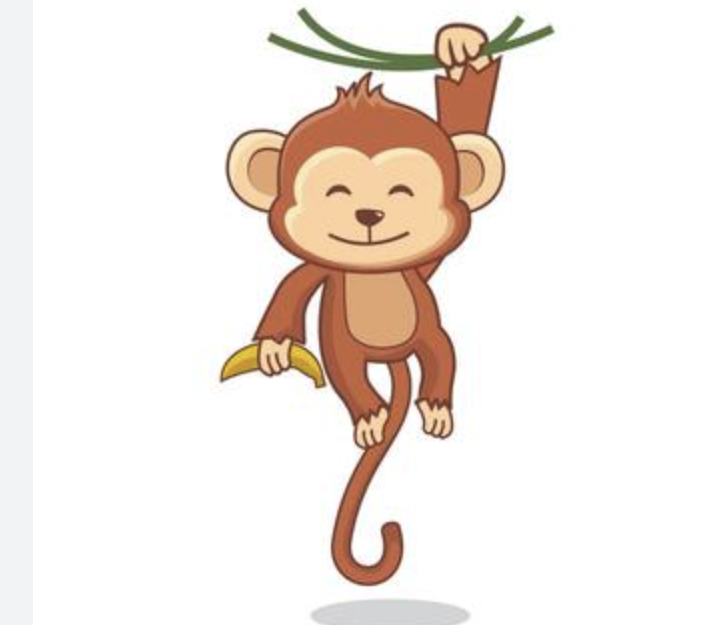
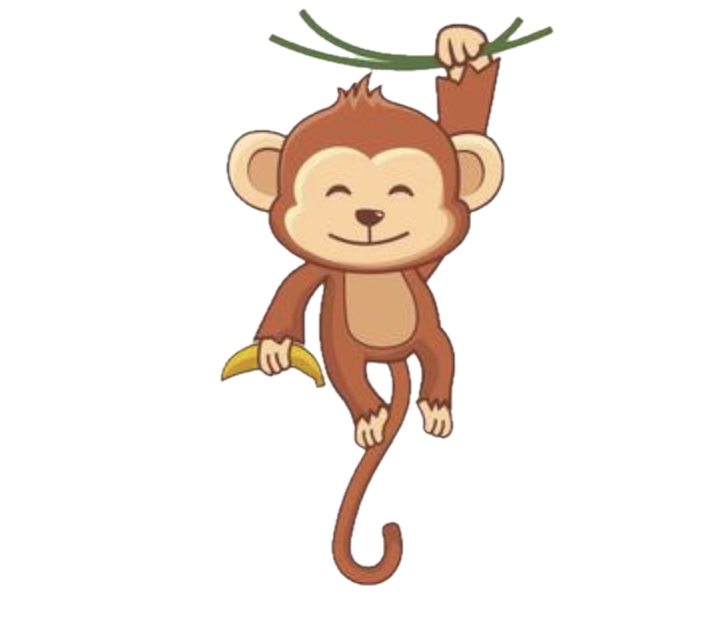
Made one charcter be sued by keys

diff --git a/src/BasicGameApp.java b/src/BasicGameApp.java
@@ -2,6 +2,7 @@
 //Graphics Libraries
 
 import java.awt.Graphics2D;
+import java.awt.event.KeyEvent;
 import java.awt.image.BufferStrategy;
 import java.awt.*;
 import java.text.AttributedString;
@@ -161,6 +162,42 @@ if (parrot.width<=20){
         }
         g.dispose();
         bufferStrategy.show();
+
+    }
+
+    @Override
+    public void keyPressed(KeyEvent e) {
+        System.out.println("key typed " + e.getKeyCode());
+
+        //UP ARROW is 38
+        if (e.getKeyCode() == 38) {
+            System.out.println("pressed up arrow");
+            Lion.ypos = Lion.ypos - 20;
+           Lion.dy = -Math.abs(Lion.dy);
+        }
+
+        //DOWN ARROW is 40
+        System.out.println("key typed " + e.getKeyCode());
+        if (e.getKeyCode() == 40) {
+            System.out.println("pressed down arrow");
+            // astro.ypos = astro.ypos - 20;
+            Lion.dy = Math.abs(Lion.dy);
+        }
+        //Right ARROW is 39
+        System.out.println("key typed " + e.getKeyCode());
+        if (e.getKeyCode() == 39) {
+            System.out.println("pressed right arrow");
+            // astro.ypos = astro.ypos - 20;
+            Lion.dx = Math.abs(Lion.dx);
+        }
+        //Left ARROW is 37
+        System.out.println("key typed " + e.getKeyCode());
+        if (e.getKeyCode() == 37) {
+            System.out.println("pressed left arrow");
+            // astro.ypos = astro.ypos - 20;
+            Lion.dx = -Math.abs(Lion.dx);
+        }
+
     }
 }
 